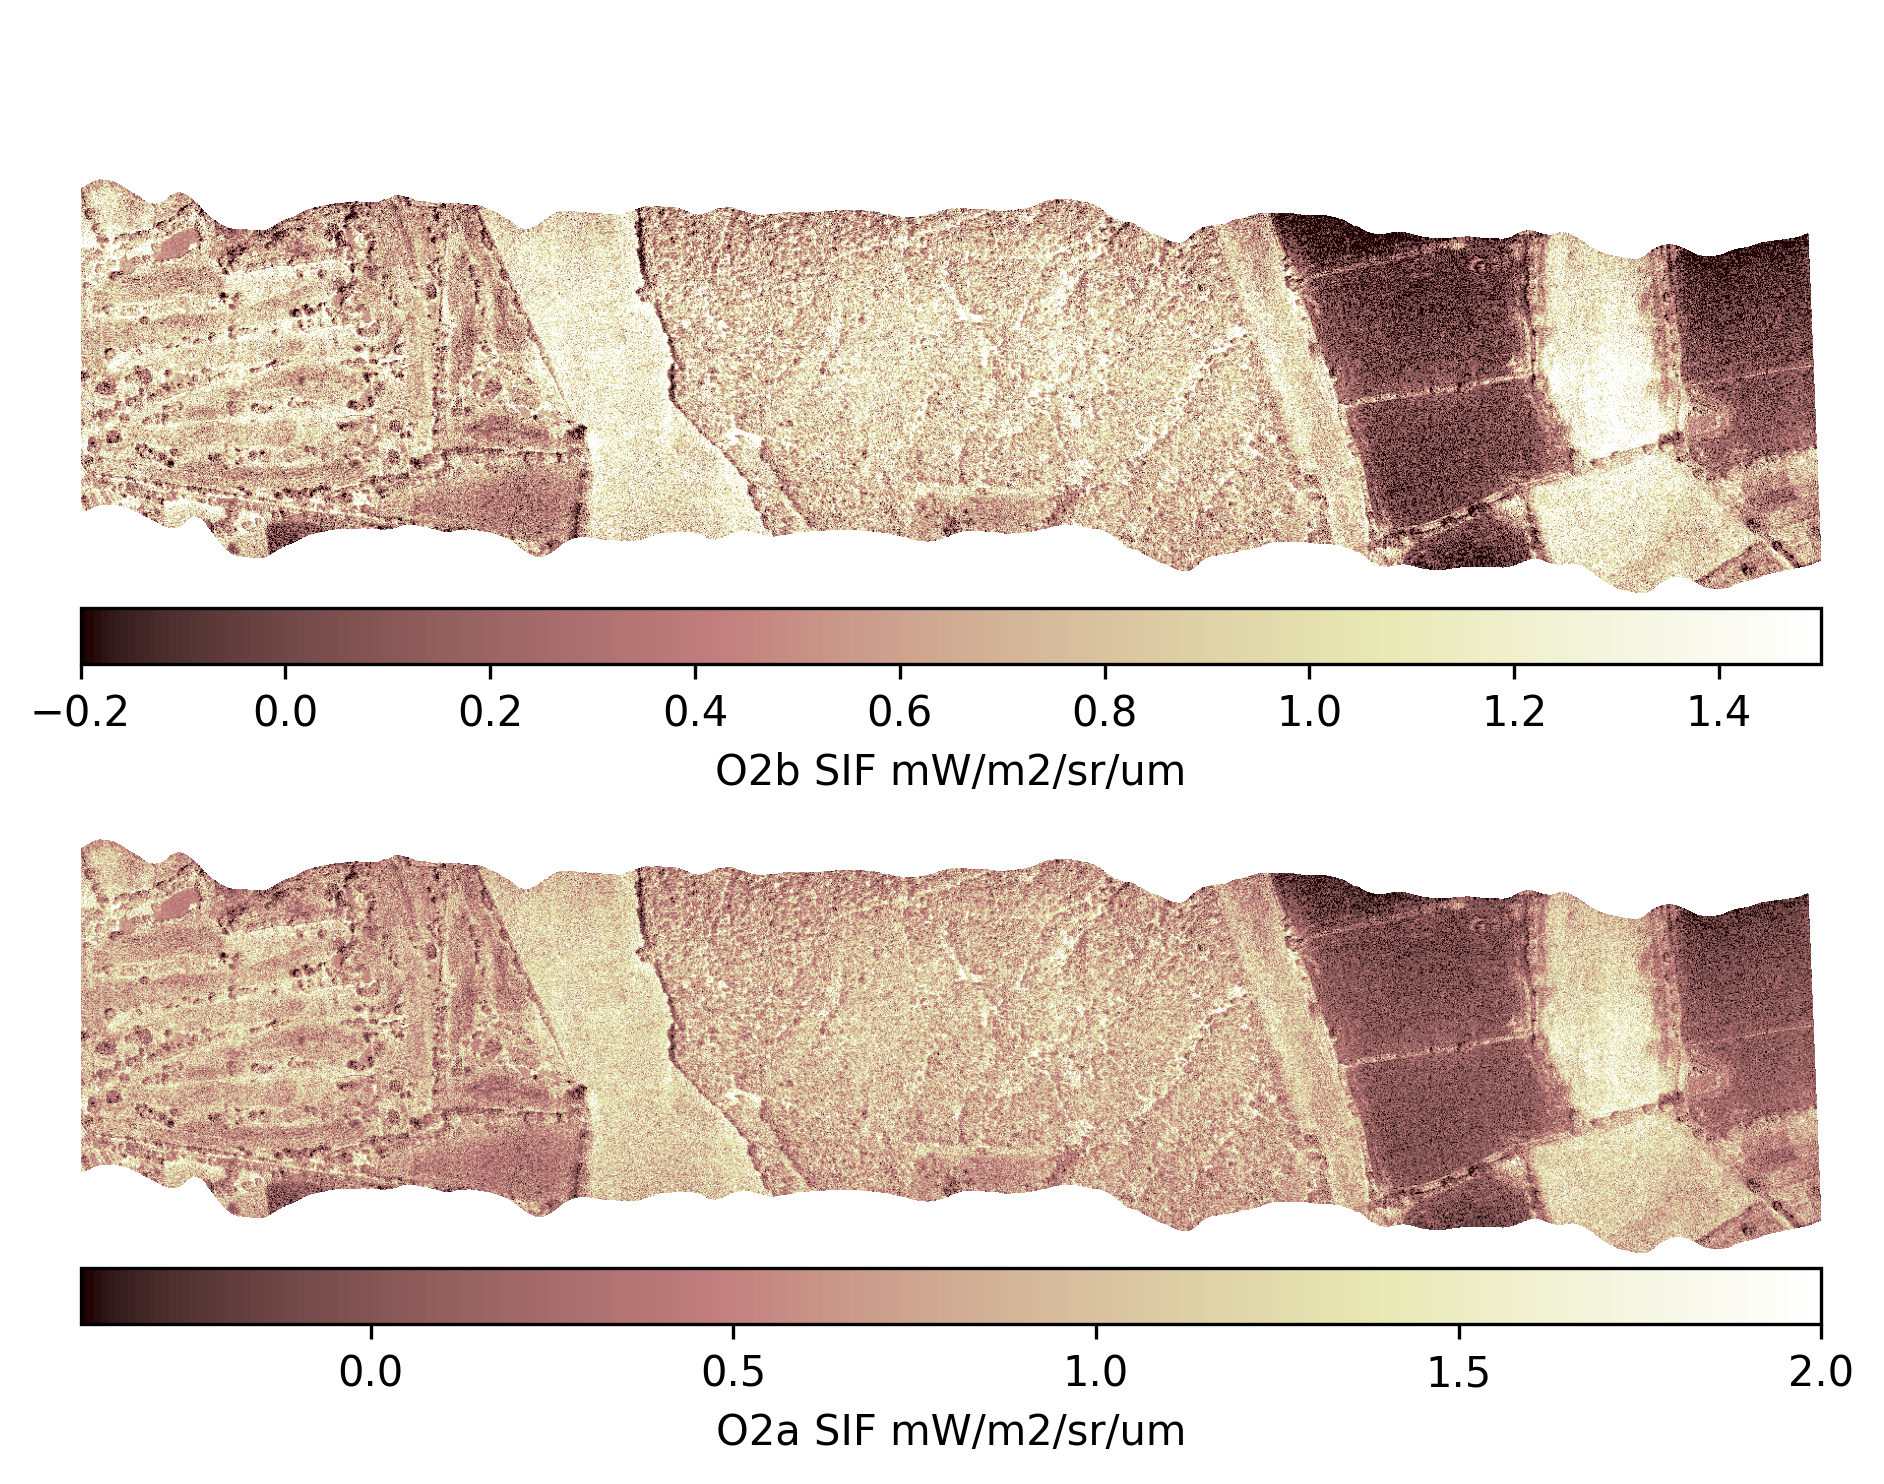
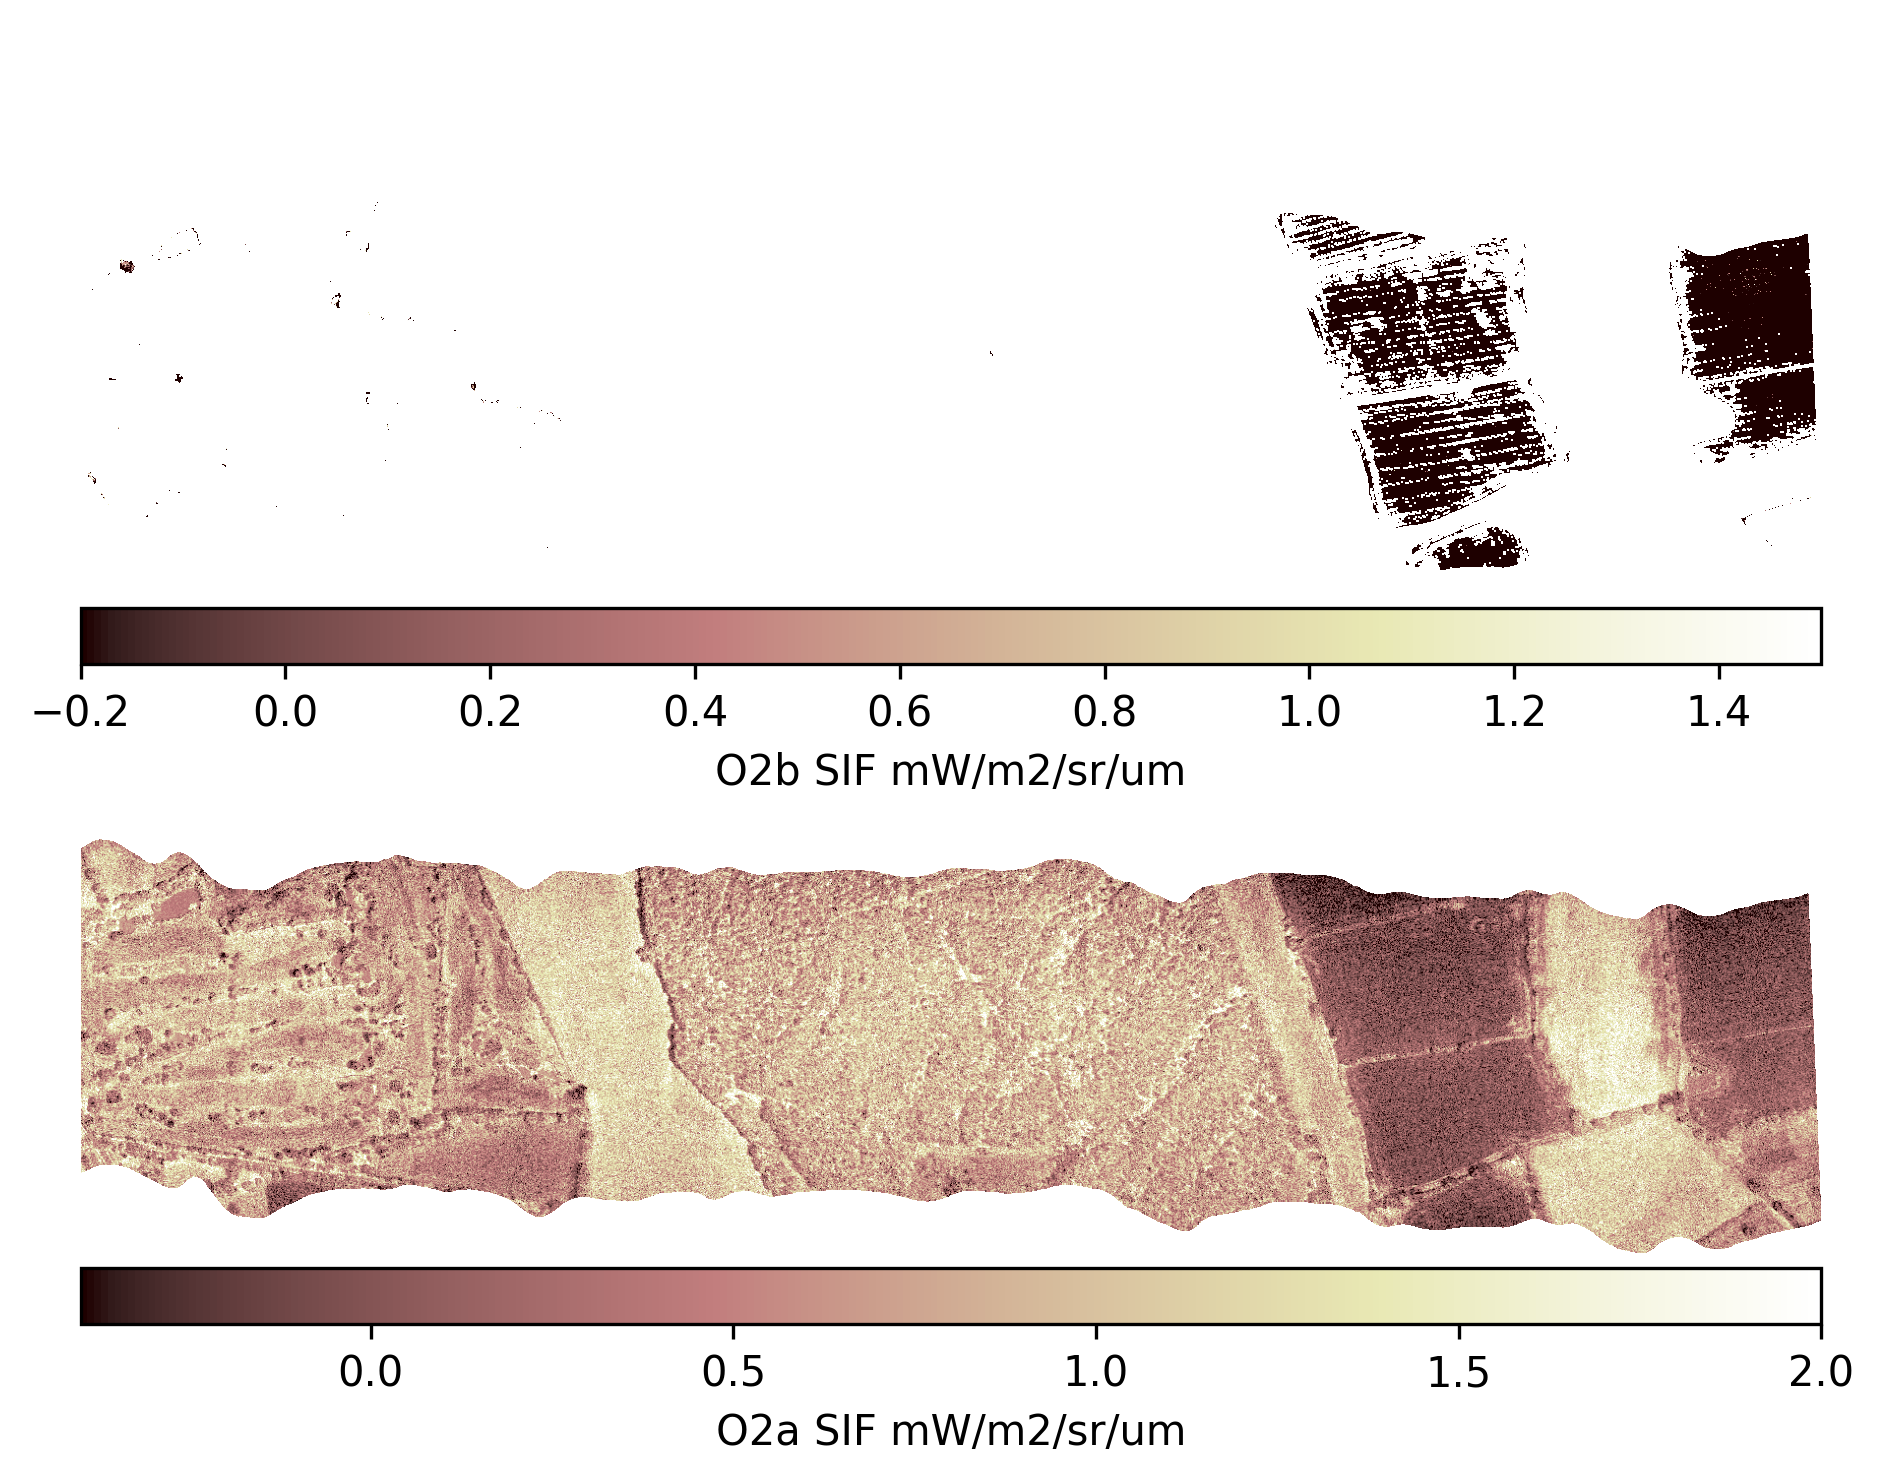
syncing local and remote

Changed region(s): [[0.0308, 0.124, 0.9851, 0.403]]

diff --git a/proc_ibis.py b/proc_ibis.py
@@ -38,6 +38,8 @@ def ibis_ndvi( ibis_spect, wref, red_wband=(670, 680), nir_wband=(770, 780)):
 
 if __name__=="__main__":
 
+    import matplotlib.pyplot as plt
+
     #create ibis data object
     ibis_filename="./data_in/i200073b_mapped_utm30n.bil"
     ibis_data=ibisBilReader(ibis_filename)
@@ -57,13 +59,17 @@ if __name__=="__main__":
     #restrict the O2b waveband - the longer
     #wavelengths change too much (this may
     #also be overcome with the ridge regression)
-    #sif_opts_FLD_Cendrero19_O2b.in_wband=(682, 690) 
+    #sif_opts_FLD_Cendrero19_O2b.in_wband=(686, 697) 
+    #sif_opts_FLD_Cendrero19_O2b.outL_wband=(680, 686)  
+    sif_opts_FLD_Cendrero19_O2b.outL_wband=(680, 686)  
+    #sif_opts_FLD_Cendrero19_O2b.outR_wband=(697, 698) 
+    sif_opts_FLD_Cendrero19_O2b.outR_wband=(697.5, 700) 
 
     #precompute pseudo inverse for regression
     #pseudo_o2a=sif_linReg_compute_pseudo_inverse(wref, sif_opts_FLD_Cendrero19_O2a)
     #pseudo_o2b=sif_linReg_compute_pseudo_inverse(wref, sif_opts_FLD_Cendrero19_O2b)
     #pseudo_o2a=sif_ridgeReg_compute_pseudo_inverse(wref, order=2, gamma=10000000., sif_opts=sif_opts_FLD_Cendrero19_O2a)
-    #pseudo_o2b=sif_ridgeReg_compute_pseudo_inverse_RFopts(wref, orderR=3, gammaR=10000000.,orderF=2, gammaF=10000000., sif_opts=sif_opts_FLD_Cendrero19_O2b)
+    pseudo_o2b=sif_ridgeReg_compute_pseudo_inverse_RFopts(wref, orderR=3, gammaR=10000000.,orderF=2, gammaF=10000000., sif_opts=sif_opts_FLD_Cendrero19_O2b)
     
     #precompute wavelengths and indices of points on
     #the spectrum required to do FLD calculations
@@ -76,8 +82,8 @@ if __name__=="__main__":
     #iterable object
     for (i,line) in enumerate(ibis_data):
         print(i,end=" ",flush=True)
-        if i>500:
-            break
+        #if i>100:
+        #    break
         for j in range(ibis_data.samples):
             ibis_spect.data=copy(line[:,j])
             if not ibis_spect.data.any():
@@ -96,25 +102,30 @@ if __name__=="__main__":
             #output_sif_o2b[i,j]=sif_ridgeReg_use_precomp_inverse(ibis_spect, pseudo_o2b, sif_opts=sif_opts_FLD_Cendrero19_O2b,out_wvl=686.7)
         
             #sFLD: =======================================
-            #output_sif_o2a[i,j]=sif_sFLD_full_search(ibis_spect, wref, sif_opts_O2a)
-            #output_sif_o2b[i,j]=sif_sFLD_full_search(ibis_spect, wref, sif_opts_O2b)
+            #output_sif_o2a[i,j]=sif_sFLD_full_search(ibis_spect, wref, sif_opts=sif_opts_FLD_Cendrero19_O2a)
+            #output_sif_o2b[i,j]=sif_sFLD_full_search(ibis_spect, wref, sif_opts=sif_opts_FLD_Cendrero19_O2b)
             #output_sif_o2a[i,j]=sif_sFLD_use_predetermined_idx(ibis_spect, wref, sif_opts_O2a)
             #output_sif_o2b[i,j]=sif_sFLD_use_predetermined_idx(ibis_spect, wref, sif_opts_O2b)
 
             #3FLD: =======================================
             #output_sif_o2a[i,j]=sif_3FLD_use_predetermined_idx(ibis_spect, wref, sif_opts_O2a)
             #output_sif_o2b[i,j]=sif_3FLD_use_predetermined_idx(ibis_spect, wref, sif_opts_O2b)
-            #output_sif_o2a[i,j]=sif_3FLD_full_search(ibis_spect, wref, sif_opts_O2a)
-            #output_sif_o2b[i,j]=sif_3FLD_full_search(ibis_spect, wref, sif_opts_O2b)
+            #output_sif_o2a[i,j]=sif_3FLD_full_search(ibis_spect, wref, sif_opts=sif_opts_FLD_Cendrero19_O2a)
+            #output_sif_o2b[i,j]=sif_3FLD_full_search(ibis_spect, wref, sif_opts=sif_opts_FLD_Cendrero19_O2b)
 
             #iFLD: =======================================
-            output_sif_o2a[i,j]=sif_iFLD_full_search(ibis_spect, wref, sif_opts=sif_opts_FLD_Cendrero19_O2a)
+            #output_sif_o2a[i,j]=sif_iFLD_full_search(ibis_spect, wref, sif_opts=sif_opts_FLD_Cendrero19_O2a)
             output_sif_o2b[i,j]=sif_iFLD_full_search(ibis_spect, wref, sif_opts=sif_opts_FLD_Cendrero19_O2b)
 
     
     #convert units
     output_sif_o2a*=ibis_data.units_to_mw_m2
     output_sif_o2b*=ibis_data.units_to_mw_m2
+
+    #plt.imshow(np.rot90(output_sif_o2b[:400,:]),cmap="pink",vmin=-0.3,vmax=2.5)
+    #plt.show()
+    
+
 
     #with open('./data_out/sif_o2a_ridgeReg.pickle', 'wb') as f:
     #    pickle.dump(output_sif_o2a, f, pickle.HIGHEST_PROTOCOL)
@@ -135,14 +146,19 @@ if __name__=="__main__":
     #    pickle.dump(output_sif_o2a, f, pickle.HIGHEST_PROTOCOL)
     #with open('./data_out/sif_o2b_3FLD.pickle', 'wb') as f:
     #    pickle.dump(output_sif_o2b, f, pickle.HIGHEST_PROTOCOL)
+
+    #with open('./data_out/sif_o2a_sFLD.pickle', 'wb') as f:
+    #    pickle.dump(output_sif_o2a, f, pickle.HIGHEST_PROTOCOL)
+    #with open('./data_out/sif_o2b_sFLD.pickle', 'wb') as f:
+    #    pickle.dump(output_sif_o2b, f, pickle.HIGHEST_PROTOCOL)
     
     #with open('./data_out/sif_o2a_sFLD_fast.pickle', 'wb') as f:
     #    pickle.dump(output_sif_o2a, f, pickle.HIGHEST_PROTOCOL)
     #with open('./data_out/sif_o2b_sFLD_fast.pickle', 'wb') as f:
     #    pickle.dump(output_sif_o2b, f, pickle.HIGHEST_PROTOCOL)
 
-    with open('./data_out/sif_o2a_iFLD.pickle', 'wb') as f:
-        pickle.dump(output_sif_o2a, f, pickle.HIGHEST_PROTOCOL)
+    #with open('./data_out/sif_o2a_iFLD.pickle', 'wb') as f:
+    #    pickle.dump(output_sif_o2a, f, pickle.HIGHEST_PROTOCOL)
     with open('./data_out/sif_o2b_iFLD.pickle', 'wb') as f:
         pickle.dump(output_sif_o2b, f, pickle.HIGHEST_PROTOCOL)
 

diff --git a/img/mk_image_detail.py b/img/mk_image_detail.py
@@ -1,0 +1,75 @@
+import pickle
+import numpy as np
+from matplotlib import pyplot as plt
+from mpl_toolkits.axes_grid1 import make_axes_locatable
+
+
+
+def mk_img(band):
+
+    #band="o2a"
+    im_xmin=2200
+    im_xmax=2750
+    im_ymin=20
+    im_ymax=420
+    cmap="pink"
+    
+    if band =="o2a":
+        vmin=-0.4
+        vmax=2.0
+    elif band =="o2b":
+        vmin=-0.2   
+        vmax=1.5
+
+    with open('../data_out/sif_%s_ridgeReg.pickle'%band, 'rb') as f:
+        image = pickle.load(f)
+    sif_rFLD_data = np.ma.masked_where(image < -10, image)
+    sif_rFLD_data = np.rot90(sif_rFLD_data[im_xmin:im_xmax,im_ymin:im_ymax])
+
+    with open('../data_out/sif_%s_sFLD.pickle'%band, 'rb') as f:
+        image = pickle.load(f)
+    sif_sFLD_data = np.ma.masked_where(image < -10, image)
+    sif_sFLD_data = np.rot90(sif_sFLD_data[im_xmin:im_xmax,im_ymin:im_ymax])
+
+    with open('../data_out/sif_%s_3FLD.pickle'%band, 'rb') as f:
+        image = pickle.load(f)
+    sif_3FLD_data = np.ma.masked_where(image < -10, image)
+    sif_3FLD_data = np.rot90(sif_3FLD_data[im_xmin:im_xmax,im_ymin:im_ymax])
+
+    with open('../data_out/sif_%s_iFLD.pickle'%band, 'rb') as f:
+        image = pickle.load(f)
+    sif_iFLD_data = np.ma.masked_where(image < -10, image)
+    sif_iFLD_data = np.rot90(sif_iFLD_data[im_xmin:im_xmax,im_ymin:im_ymax])
+
+    fig, axes = plt.subplots(nrows=2, ncols=2)
+
+    axes[0,0].imshow(sif_sFLD_data, vmin=vmin, vmax=vmax, cmap=cmap)
+    axes[0,0].axis("off")
+    axes[0,0].set_title("sFLD")
+
+    axes[0,1].imshow(sif_3FLD_data, vmin=vmin, vmax=vmax, cmap=cmap)
+    axes[0,1].axis("off")
+    axes[0,1].set_title("3FLD")
+
+    axes[1,0].imshow(sif_iFLD_data, vmin=vmin, vmax=vmax, cmap=cmap)
+    axes[1,0].axis("off")
+    axes[1,0].set_title("iFLD")
+
+    im=axes[1,1].imshow(sif_rFLD_data, vmin=vmin, vmax=vmax, cmap=cmap)
+    axes[1,1].axis("off")
+    axes[1,1].set_title("rFLD")
+
+    fig.subplots_adjust(bottom=0.2)
+    #fig.tight_layout()
+    cbar_ax = fig.add_axes([0.15, 0.1, 0.7, 0.065])
+    fig.colorbar(im, orientation="horizontal", label="SIF mW/m2/sr/um",pad=0.01, cmap=cmap, cax=cbar_ax)
+    
+    #plt.show()
+    plt.savefig("ibis_sif_detail_%s.png"%band,bbox_inches='tight', dpi=300)
+   
+    
+if __name__=="__main__":
+    mk_img("o2a")    
+    mk_img("o2b")    
+    
+    

diff --git a/img/mk_image_full.py b/img/mk_image_full.py
@@ -9,14 +9,12 @@ def mk_img(name):
     with open('../data_out/sif_o2a_%s.pickle'%name, 'rb') as f:
         image = pickle.load(f)
     sif_o2a_data = np.ma.masked_where(image < -10, image)
-    #sif_o2a_data = sif_o2a_data[2000:,:]
-    sif_o2a_data = sif_o2a_data[:500,:]
+    sif_o2a_data = sif_o2a_data[2000:,:]
 
-    with open('../data_out/sif_o2a_%s.pickle'%name, 'rb') as f:
+    with open('../data_out/sif_o2b_%s.pickle'%name, 'rb') as f:
         image = pickle.load(f)
     sif_o2b_data = np.ma.masked_where(image < -10, image)
-    #sif_o2b_data = sif_o2b_data[2000:,:]
-    sif_o2b_data = sif_o2b_data[:500,:]
+    sif_o2b_data = sif_o2b_data[2000:,:]
 
     cmap="pink"
     #cmap="hot"
@@ -53,8 +51,8 @@ if __name__=="__main__":
 
     proc_list=[]
     #proc_list.append("sFLD_fast")
-    #proc_list.append("sFLD")
-    proc_list.append("iFLD")
+    proc_list.append("sFLD")
+    #proc_list.append("iFLD")
     #proc_list.append("3FLD_fast")
     #proc_list.append("3FLD")
     #proc_list.append("ridgeReg")

diff --git a/README.md b/README.md
@@ -2,6 +2,4 @@
 
 Tools for calculating SIF from IBIS data in ENVI BIL format that provided by NEODAAS after pre-processing.
 
-Note: This code is a work in progress and is not yet at a level of maturity to produce high quality SIF products. Watch this space!
-
-![Example SIF retrieval](img/ibis_sif_ridgeReg2_o2a_o2b.png)
+![Example SIF retrieval](img/ibis_sif_ridgeReg_o2a_o2b.png)
